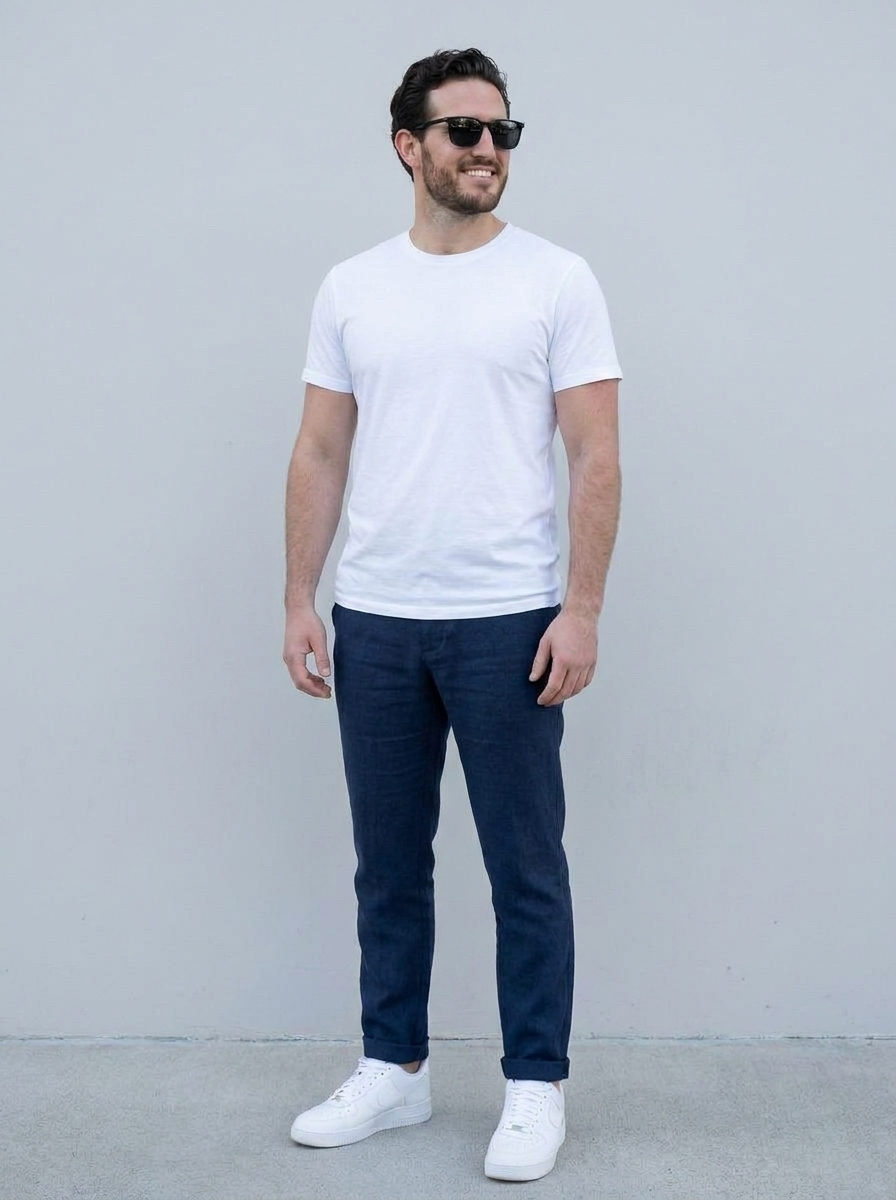
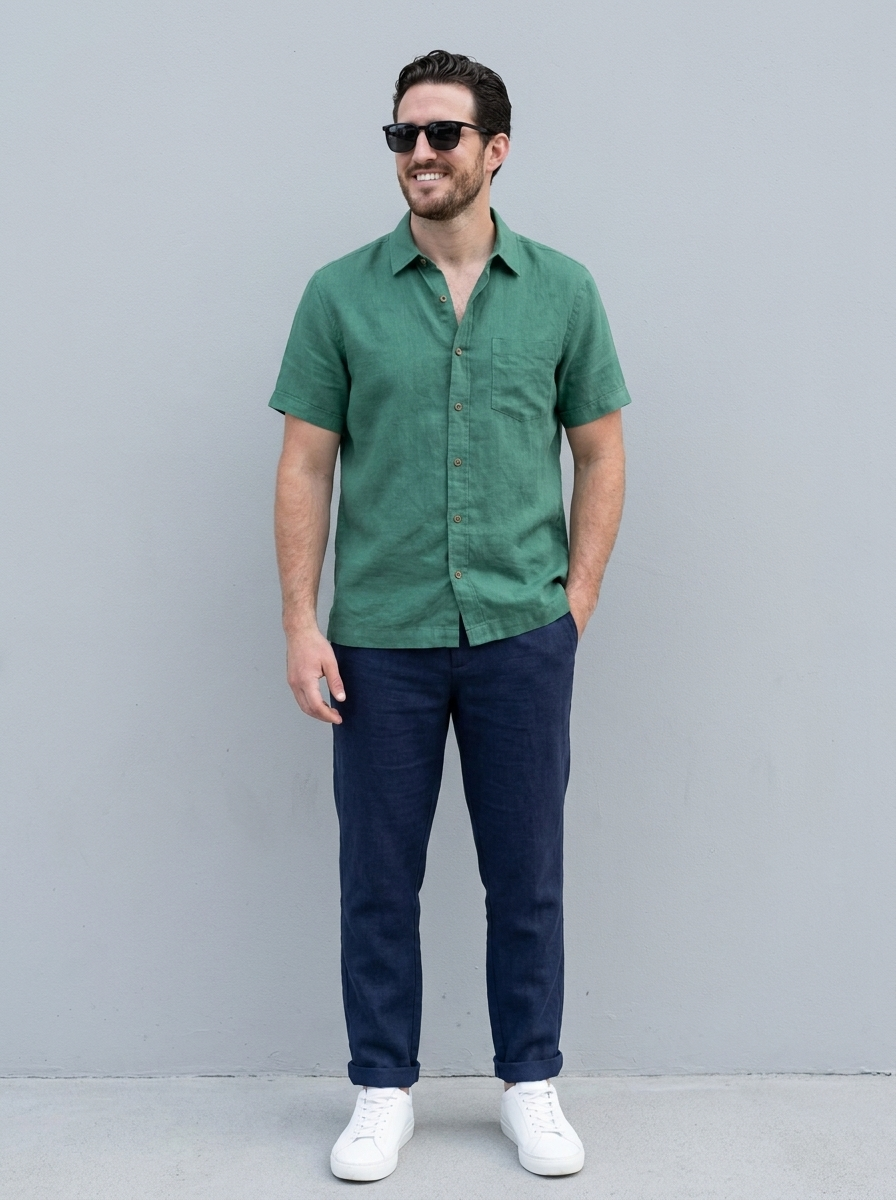
fix(prendas): la que no tenía imagen salía sin foto y mal puesta (0.2.94.1)
Roberto lo cachó mirando un render del A/B: el outfit decía "camisa de lino
esmeralda" y el avatar traía una playera blanca.

CADENA COMPLETA
"Camisa de lino esmeralda" era la única prenda de su clóset de 127 sin imagen
de ningún tipo: sin foto propia, sin arquetipo, sin render limpio y sin nada
que pedir prestado. Lo último es consecuencia de un arreglo anterior y CORRECTA:
antes le prestaba la foto del "Suéter esmeralda" (#1E6B52 contra #1F6B4A) y
salía un suéter donde el look decía camisa; ahora se exige mismo tipo de prenda
y la única camisa verde del catálogo es turquesa, a 128 de distancia con tope
de 40. Lo que faltó fue el paso siguiente: generar su render propio.

De ahí sale lo del avatar. El try-on recibió 3 imágenes de 4, y el modelo
resolvió el hueco dejando puesta la playera blanca base del avatar. El ancla
de texto que ya existía no alcanzó: es una descripción pasiva al final del
prompt compitiendo contra imágenes concretas.

QUÉ CAMBIA
- scripts/sanar-prendas-sin-imagen.ts: renderea las que quedaron sin ninguna
  de las cuatro fuentes. 8 de 967 en toda la base, 4 usuarios. El render bajo
  demanda ya existía pero solo se dispara desde el navegador (Hoy y maleta),
  y ni el arnés ni un clóset sembrado pasan por ahí.
- app/api/tryon: cuando una prenda no trae imagen, ahora va como INSTRUCCIÓN
  —nómbrala, píntala de su descripción, y NO la sustituyas por la ropa base—
  en vez de solo listarla entre las demás.
[…]

Changed region(s): [[0.0, 0.0308, 1.0, 1.0]]

diff --git a/scripts/sanar-prendas-sin-imagen.ts b/scripts/sanar-prendas-sin-imagen.ts
@@ -1,0 +1,107 @@
+// Genera el render limpio de las prendas que quedaron SIN NINGUNA imagen.
+//
+// POR QUÉ EXISTE
+// El clóset tiene cuatro formas de conseguir la imagen de una prenda: foto
+// propia, arquetipo, render limpio propio, o una imagen PRESTADA de un arquetipo
+// parecido. "Camisa de lino esmeralda" no tiene ninguna de las cuatro, y salía
+// en el A/B como "sin foto" — y peor: el try-on, al no recibir su imagen, dejaba
+// puesta la playera blanca base del avatar. Roberto lo cachó mirando el render.
+//
+// Prestar dejó de funcionar A PROPÓSITO: antes le prestaba la foto del "Suéter
+// esmeralda" (#1E6B52 contra #1F6B4A, casi el mismo color) y salía un suéter
+// donde el outfit decía camisa. El arreglo exige mismo TIPO de prenda, no solo
+// color parecido — correcto, pero deja a la camisa sin nada que pedir prestado:
+// la única camisa verde del catálogo es turquesa, a 128 de distancia cuando el
+// tope es 40.
+//
+// El render propio ya existía (lib/render-item, el mismo del auto-sanado), pero
+// solo se dispara desde el navegador — en Hoy automático y en maleta al tocar.
+// El arnés del A/B no pasa por ahí, así que la prenda nunca se sanó.
+//
+// Uso: npx tsx scripts/sanar-prendas-sin-imagen.ts [--aplicar]
+//      sin --aplicar solo lista qué prendas sanaría.
+
+import { readFileSync } from "node:fs";
+import { createClient } from "@supabase/supabase-js";
+import { renderItemImage } from "../lib/render-item";
+
+for (const l of readFileSync(".env.local", "utf8").split("\n")) {
+  const i = l.indexOf("=");
+  if (i > 0 && !l.startsWith("#")) {
+    process.env[l.slice(0, i)] ??= l
+      .slice(i + 1)
+      .trim()
+      .replace(/^"|"$/g, "");
+  }
+}
+
+const APLICAR = process.argv.includes("--aplicar");
+
+type Fila = {
+  id: string;
+  user_id: string;
+  photo_path: string | null;
+  render_status: string | null;
+  render_path: string | null;
+  attrs: { nombre?: string; categoria?: string; image_path?: string | null } | null;
+  archetype_id: string | null;
+  archetypes: { image_path?: string | null } | null;
+};
+
+async function main() {
+  const s = createClient(
+    process.env.NEXT_PUBLIC_SUPABASE_URL!,
+    process.env.SUPABASE_SERVICE_ROLE_KEY!
+  );
+
+  // Todas las prendas vivas, paginadas: Supabase corta en 1000 por consulta y
+  // hay 967 — a un par de altas de romper el conteo en silencio.
+  const todas: Fila[] = [];
+  for (let desde = 0; ; desde += 1000) {
+    const { data } = await s
+      .from("items")
+      .select(
+        "id, user_id, photo_path, render_status, render_path, attrs, archetype_id, archetypes(image_path)"
+      )
+      .is("deleted_at", null)
+      .range(desde, desde + 999);
+    if (!data?.length) break;
+    todas.push(...(data as unknown as Fila[]));
+    if (data.length < 1000) break;
+  }
+
+  const sin = todas.filter(
+    (i) =>
+      !i.photo_path &&
+      !(i.render_status === "done" && i.render_path) &&
+      !i.attrs?.image_path &&
+      !i.archetypes?.image_path
+  );
+
+  console.log(
+    `${todas.length} prendas vivas · ${sin.length} sin ninguna imagen${APLICAR ? "" : " (simulación)"}\n`
+  );
+  if (!sin.length) return;
+
+  let ok = 0;
+  for (const it of sin) {
+    const nombre = it.attrs?.nombre ?? it.id;
+    if (!APLICAR) {
+      console.log(`  · ${nombre}  [${it.attrs?.categoria ?? "?"}]`);
+      continue;
+    }
+    // De uno en uno: cada render es una llamada de generación de imagen y el
+    // guard anti doble-generación marca 'pending' en la fila. En paralelo se
+    // pisarían y no vale la pena por ocho prendas.
+    const r = await renderItemImage(s, it.user_id, it.id);
+    if (r.ok && r.path) {
+      ok++;
+      console.log(`  ✓ ${nombre}`);
+    } else {
+      console.log(`  ✗ ${nombre} — ${r.skipped ? "omitida" : (r.error ?? "falló")}`);
+    }
+  }
+  if (APLICAR) console.log(`\n${ok}/${sin.length} sanadas`);
+}
+
+main();

diff --git a/app/api/tryon/route.ts b/app/api/tryon/route.ts
@@ -55,7 +55,8 @@ function mediaTypeOf(b64: string): string {
 function buildPrompt(
   tip: string | null,
   garments: string[],
-  identity?: { n: number; hasFace: boolean; hasSheet: boolean }
+  identity?: { n: number; hasFace: boolean; hasSheet: boolean },
+  sinImagen: string[] = []
 ): string {
   let p =
     identity && identity.n > 1
@@ -66,6 +67,18 @@ function buildPrompt(
   // prenda genérica — sabe que es "un suéter esmeralda", no una t-shirt blanca.
   if (garments.length > 0) {
     p += ` The garments are (described in Spanish): ${garments.join("; ")}.`;
+  }
+  // Y cuando SÍ falta una imagen, decirlo explícitamente. La lista de arriba
+  // sola no alcanzó: es una descripción pasiva compitiendo contra imágenes
+  // concretas, y el modelo resolvió dejando la playera blanca base del avatar
+  // donde el outfit pedía una camisa de lino esmeralda. Nombrar la prenda
+  // faltante como INSTRUCCIÓN —y prohibir el relleno por default— es lo que
+  // cierra el hueco mientras la prenda consigue su render.
+  if (sinImagen.length > 0) {
+    p +=
+      ` IMPORTANT — these garments have NO reference image and you must render them from their Spanish description alone: ${sinImagen.join("; ")}.` +
+      " They are part of the outfit and MUST appear on the body, with the exact garment type, colour and fabric their description states." +
+      " Do NOT substitute them with the person's base clothing (the plain white t-shirt or blue jeans) and do NOT omit them.";
   }
   const t = (tip ?? "").trim();
   if (t) {
@@ -215,11 +228,16 @@ export async function POST(request: NextRequest) {
   try {
     const parts = [
       {
-        text: buildPrompt((outfit.tip as string | null) ?? null, prendaNames, {
-          n: identityB64.length,
-          hasFace: !!faceRefB64,
-          hasSheet: !!sheetRefB64,
-        }),
+        text: buildPrompt(
+          (outfit.tip as string | null) ?? null,
+          prendaNames,
+          {
+            n: identityB64.length,
+            hasFace: !!faceRefB64,
+            hasSheet: !!sheetRefB64,
+          },
+          sinImagen
+        ),
       },
       ...identityB64.map((d) => ({ inlineData: { mimeType: mediaTypeOf(d), data: d } })),
       ...prendasB64.map((d) => ({ inlineData: { mimeType: mediaTypeOf(d), data: d } })),

diff --git a/CHANGELOG.md b/CHANGELOG.md
@@ -2,6 +2,12 @@
 
 Cambios notables de stailist. Formato basado en [Keep a Changelog](https://keepachangelog.com/es/); versiones `MAJOR.MINOR.PATCH.MICRO`.
 
+## [0.2.94.1] - 2026-08-04
+
+### Fixed
+
+- **La prenda que no tenía foto salía sin foto — y salía mal puesta.** Una prenda del clóset puede sacar su imagen de cuatro lados: tu foto, su arquetipo, su render limpio, o una imagen prestada de una prenda muy parecida. Prestar se volvió estricto hace poco (antes te enseñaba un suéter donde el look decía camisa), y eso dejó a unas pocas prendas sin ninguna de las cuatro: aparecían como "sin foto" en el look. Peor: al verte con el look puesto, el avatar no recibía esa prenda y se quedaba con la playera blanca de base, así que la imagen contradecía al outfit. Ahora esas prendas generan su propio render, y si aun así faltara la imagen, al avatar se le dice qué prenda es y que no la sustituya por su ropa de base.
+
 ## [0.2.94.0] - 2026-08-04
 
 ### Changed
